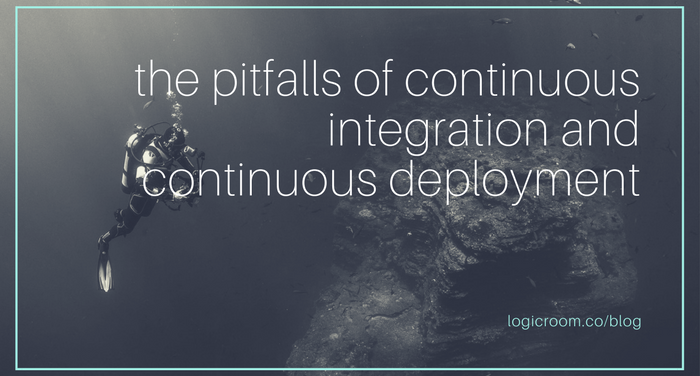
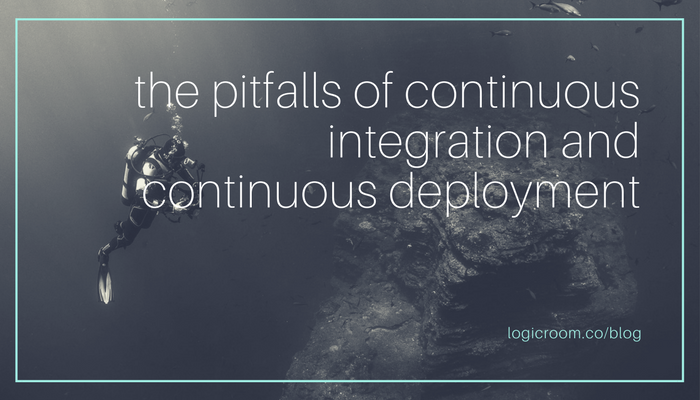
fixed image sizes

diff --git a/blog/index.html b/blog/index.html
@@ -9,17 +9,17 @@ type : blog
 
     <div class="row">
 
-      {% for post in site.posts limit:52 %}
+      {% for post in site.posts limit:9 %}
       <div class="col-xs-12 col-sm-4">
 
-        <a class="highlight" style="text-decoration: none; cursor:pointer;" href="{{post.url}}">
-        <img src="{{post.url}}images/header.png">
+        <!--<a class="highlight" href="{{post.url}}">-->
+          <img src="{{post.url}}images/header.png">
 
-          <br>
-          <br>
+          <!--<br>-->
+          <!--<br>-->
 
         <!--<h5>{{post.title}} </h5>-->
-        </a>
+        <!--</a>-->
 
       </div>
       {% endfor %}
